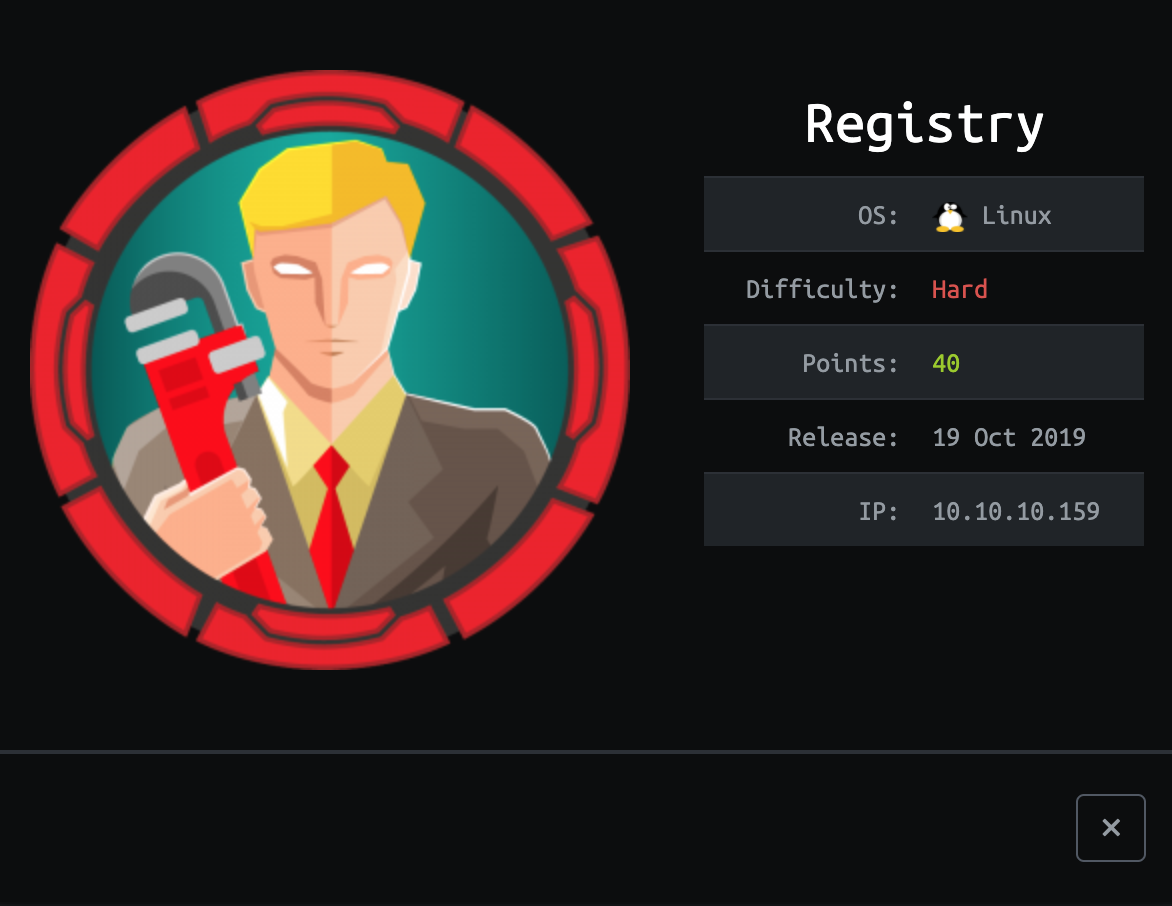
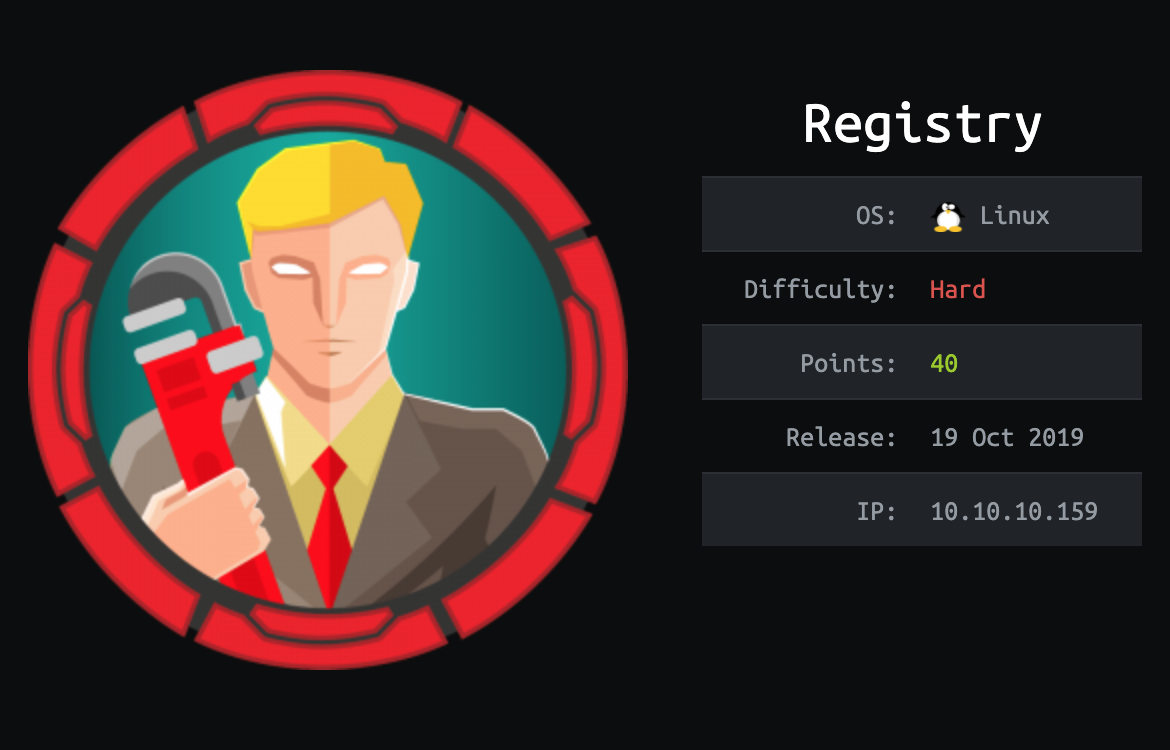
dimensao imagem

diff --git a/_site/list/index.html b/_site/list/index.html
@@ -65,7 +65,7 @@
       
 
       <p>
-        <img src="/img/jekyll/8/banner.png">
+        <img class="img-post" src="/img/jekyll/8/banner.png">
       </p>
 
       
@@ -122,7 +122,7 @@
       
 
       <p>
-        <img src="/img/jekyll/1/ratf.png">
+        <img class="img-post" src="/img/jekyll/1/ratf.png">
       </p>
 
       

diff --git a/_site/index.html b/_site/index.html
@@ -74,7 +74,7 @@
     
 
     <p>
-      <img src="/img/jekyll/8/banner.png">
+      <img class="img-post" src="/img/jekyll/8/banner.png">
     </p>
 
     
@@ -157,7 +157,7 @@
     
 
     <p>
-      <img src="/img/jekyll/1/ratf.png">
+      <img class="img-post" src="/img/jekyll/1/ratf.png">
     </p>
 
     

diff --git a/_site/css/style.css b/_site/css/style.css
@@ -251,6 +251,10 @@ li a {
   padding:2px;
 }
 
+.img-post{
+  max-height: 280px;
+}
+
 /* Responsive layout - when the screen is less than 800px wide, make the two columns stack on top of each other instead of next to each other */
 @media screen and (max-width: 800px) {
   .leftcolumn, .rightcolumn {

diff --git a/css/style.css b/css/style.css
@@ -251,6 +251,10 @@ li a {
   padding:2px;
 }
 
+.img-post{
+  max-height: 280px;
+}
+
 /* Responsive layout - when the screen is less than 800px wide, make the two columns stack on top of each other instead of next to each other */
 @media screen and (max-width: 800px) {
   .leftcolumn, .rightcolumn {

diff --git a/_layouts/list.html b/_layouts/list.html
@@ -26,7 +26,7 @@
       {%if post.image %}
 
       <p>
-        <img src="{{ post.image }}">
+        <img class="img-post" src="{{ post.image }}">
       </p>
 
       {%endif%}

diff --git a/_includes/content.html b/_includes/content.html
@@ -9,7 +9,7 @@
     {%if post.image %}
 
     <p>
-      <img src="{{ post.image }}">
+      <img class="img-post" src="{{ post.image }}">
     </p>
 
     {%endif%}
